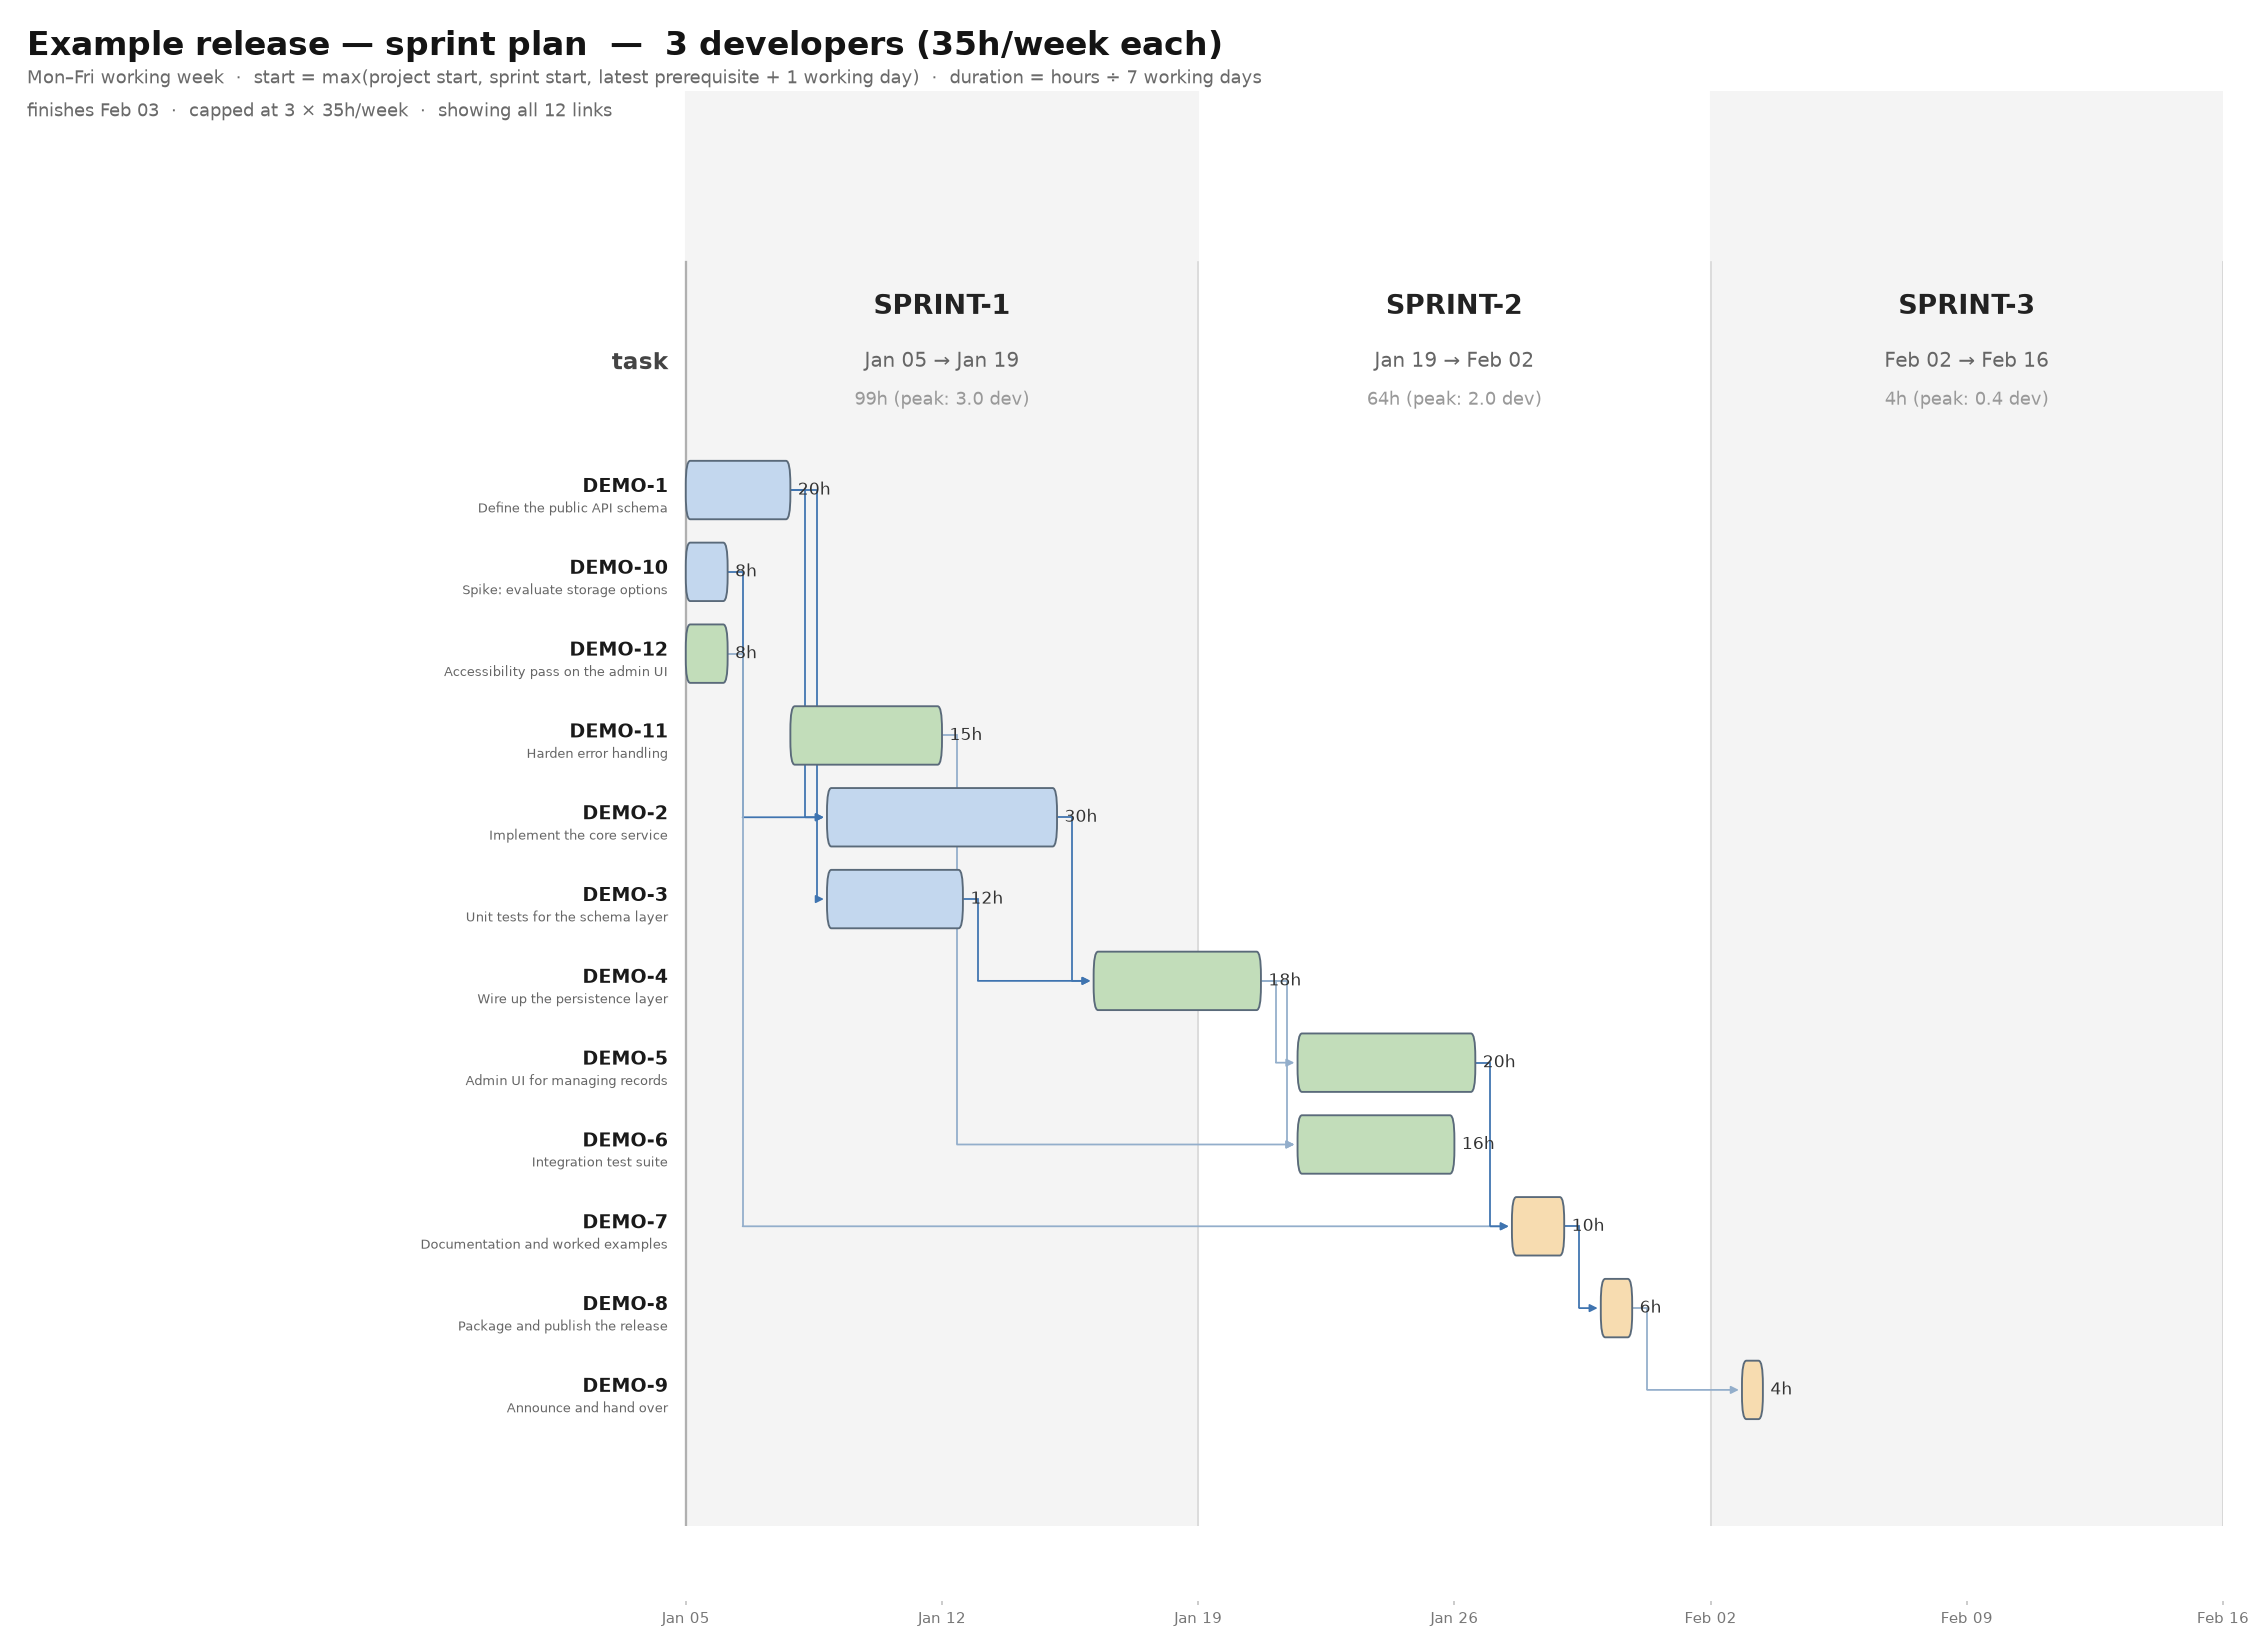
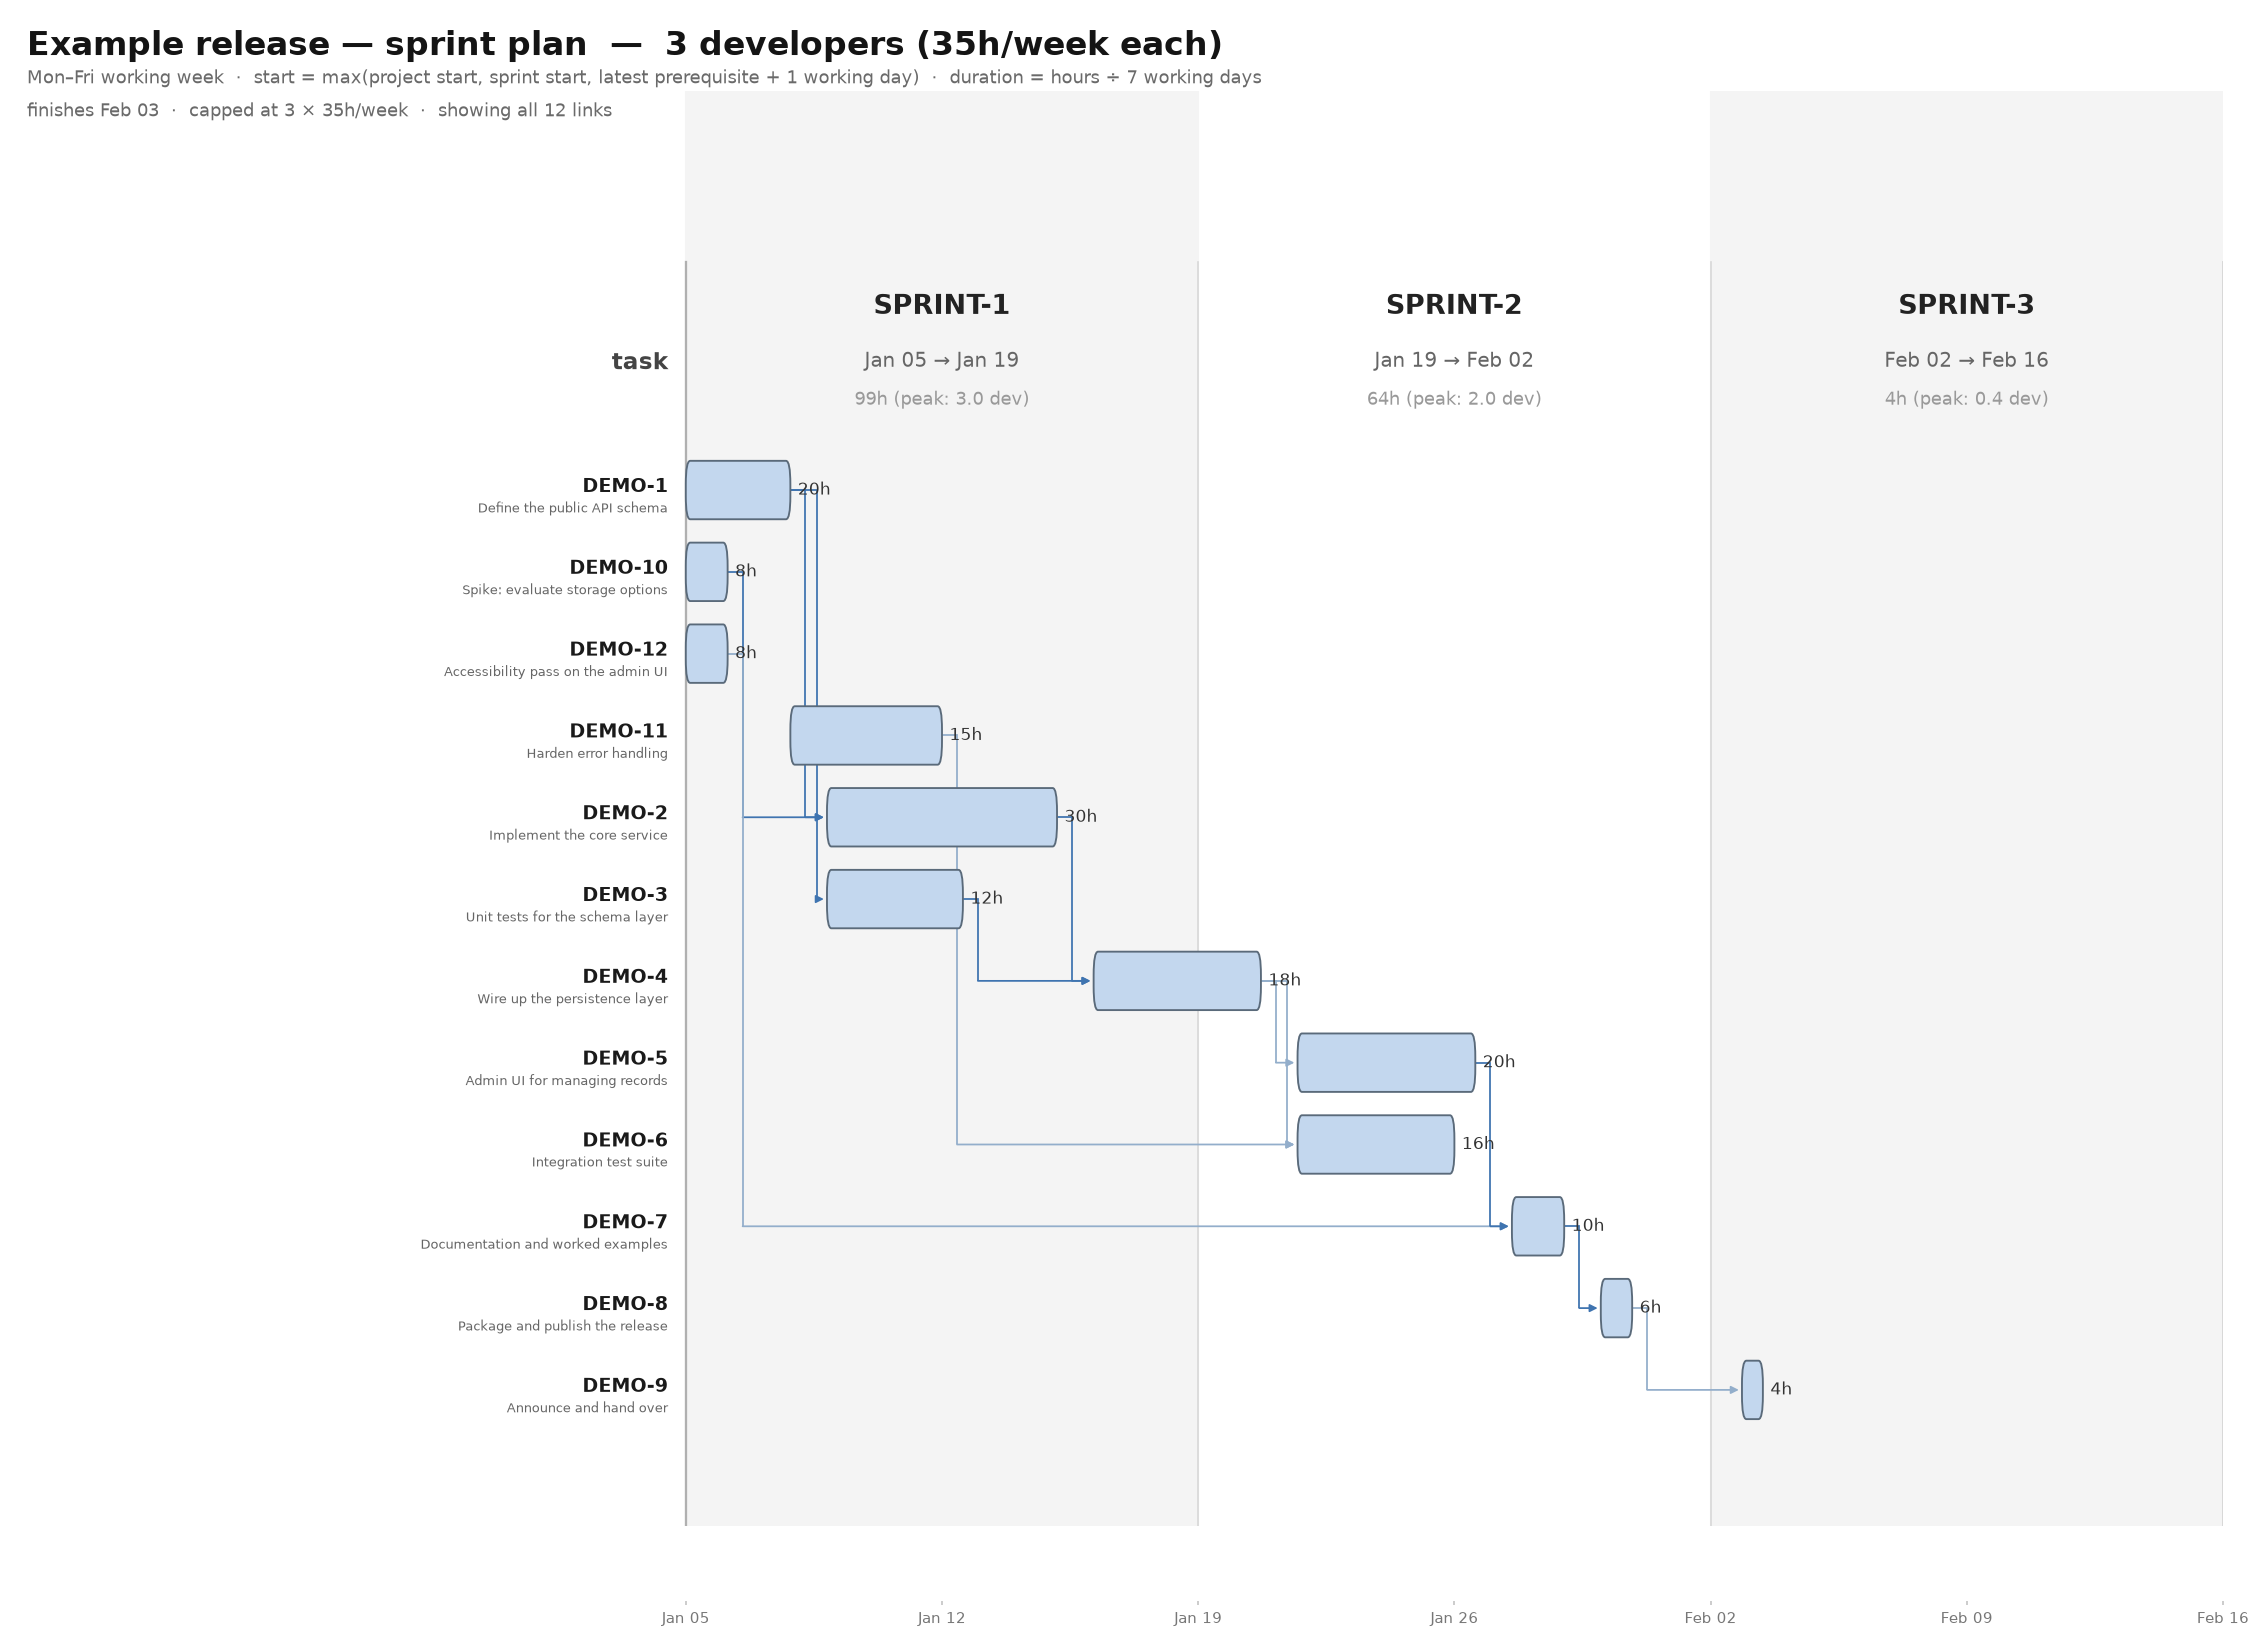
refactor: drop the summary row ordering

diff --git a/gantt.py b/gantt.py
@@ -57,12 +57,11 @@ ap.add_argument("--edges", choices=["all", "latest"], default="all",
                 help="all = every link in the export (default); latest = per "
                      "task, only its latest-finishing predecessor, i.e. the "
                      "link that actually gates its start")
-ap.add_argument("--order", choices=["schedule", "key", "summary"], default="schedule",
+ap.add_argument("--order", choices=["schedule", "key"], default="schedule",
                 help="row order. schedule = earliest start first (default), "
                      "which keeps blockers above the tasks they gate so the "
-                     "arrows flow downward. key or summary sorts the rows "
-                     "alphabetically, which is easier to scan but crosses the "
-                     "arrows.")
+                     "arrows flow downward. key sorts the rows by issue key, "
+                     "which is easier to scan but crosses the arrows.")
 ap.add_argument("--people", type=int, default=None, metavar="N",
                 help="limit to N developers at hours_per_day x days_per_week per "
                      "week each; weekends are non-working (default: unlimited)")
@@ -100,12 +99,10 @@ HDR_TOP      = 1.90
 
 # one row per task, ordered by (start, sprint)
 # Row order.  "schedule" keeps each task below the ones that gate it, so the
-# arrows run downward; the alphabetical orders are easier to look a task up in
-# but discard that property and cross the arrows.
+# arrows run downward; key order is easier to look a task up in but discards
+# that property and crosses the arrows.
 if args.order == "key":
     order_by = lambda k: k
-elif args.order == "summary":
-    order_by = lambda k: (tasks[k]["summary"].lower(), k)
 else:
     order_by = lambda k: (sched[k][0], tasks[k]["sprint"], k)
 seq    = sorted(tasks, key=order_by)

diff --git a/README.md b/README.md
@@ -92,7 +92,6 @@ uv run python gantt.py --title "My Epic - plan" --assignment rebalance \
 | `--edges latest` | draw only the predecessor that actually gates each task |
 | `--order schedule` | rows in earliest-start order (default) |
 | `--order key` | rows in issue-key order |
-| `--order summary` | rows in task-text order |
 | `--people N` | cap concurrency at N developers (`make capped PEOPLE=N`) |
 | `--version N` | version label appended to the title |
 | `-o` | output path |
@@ -177,11 +176,11 @@ Two assignments are available:
 ### Row order
 
 `--order schedule` (the default) lists each task below the blockers that gate
-it, so dependency arrows flow downward and left to right. `--order key` and
-`--order summary` sort the rows alphabetically instead, which is easier to look
-a task up in but discards that property — arrows then cross the chart rather
-than stepping down it. Row order affects only the layout: dates, hours and peak
-headcount are identical in all three.
+it, so dependency arrows flow downward and left to right. `--order key` sorts
+the rows by issue key instead, which makes a task easier to find but discards
+that property — arrows then cross the chart rather than stepping down it. Row
+order affects only the layout: dates, hours and peak headcount are the same
+either way.
 
 ### Capacity
 
